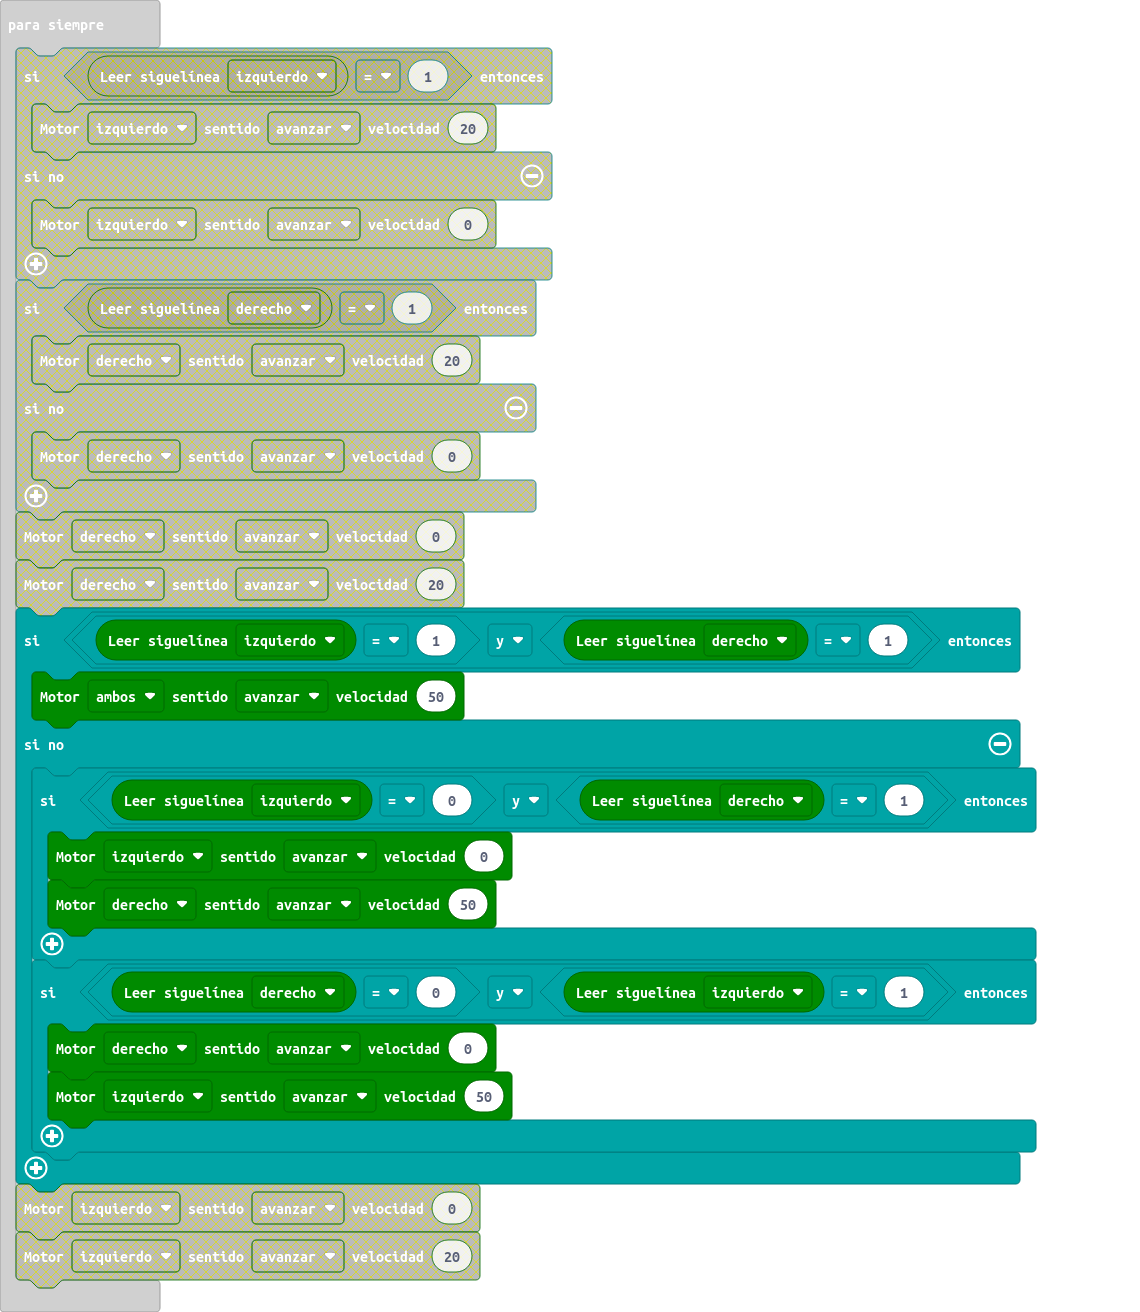
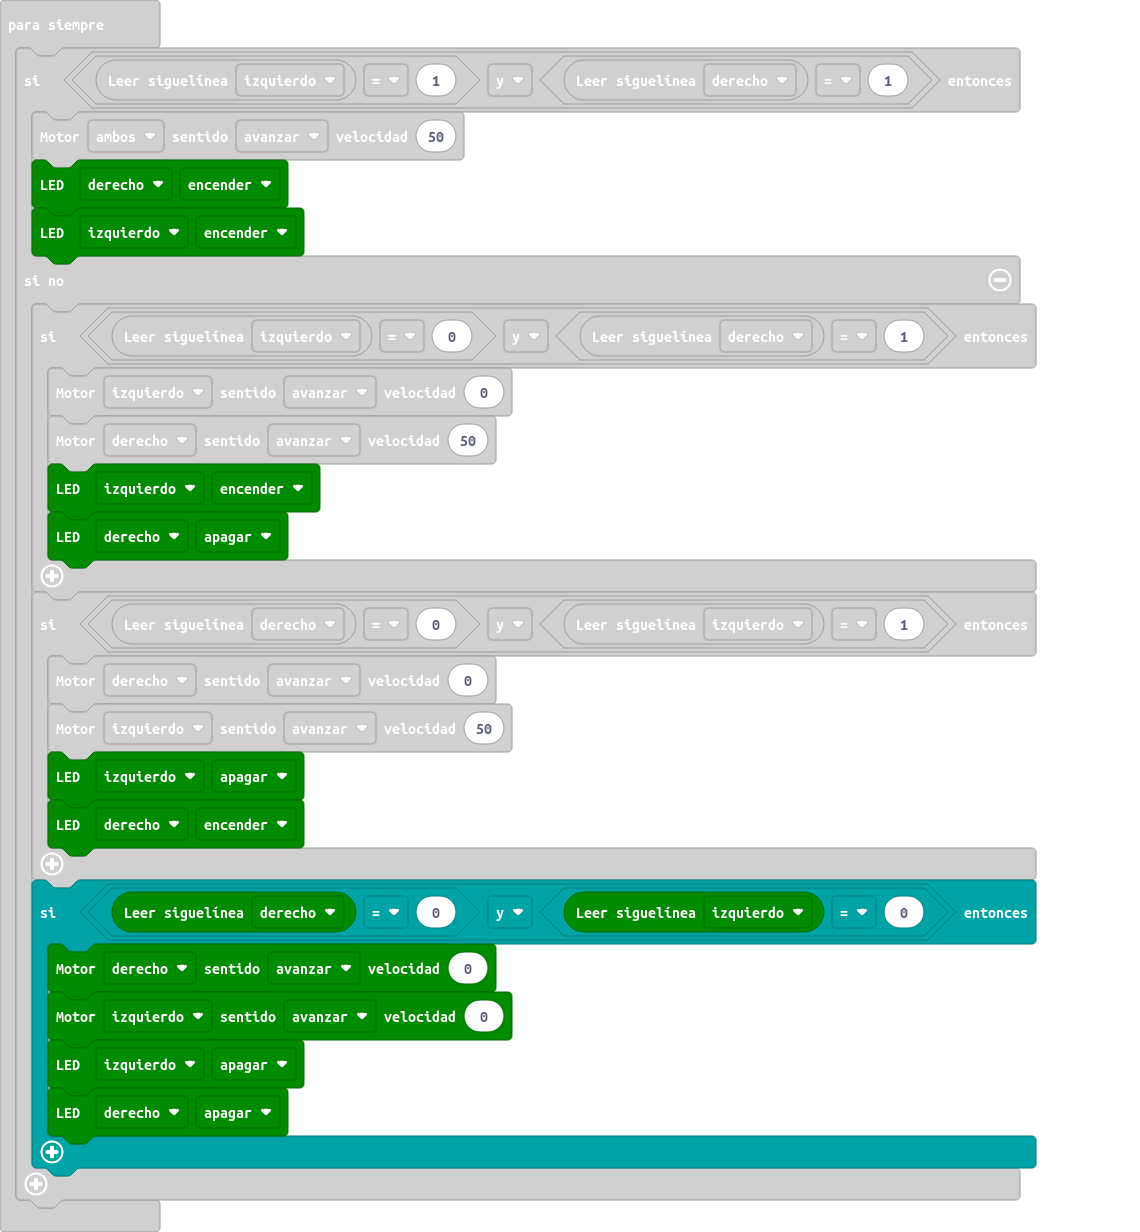
ljfdgoigsoreugfaertdfhosicfaue9sudhscoashuiñ

diff --git a/main.ts b/main.ts
@@ -1,14 +1,26 @@
 basic.forever(function () {
     if (maqueen.readPatrol(maqueen.Patrol.PatrolLeft) == 1 && maqueen.readPatrol(maqueen.Patrol.PatrolRight) == 1) {
         maqueen.motorRun(maqueen.Motors.All, maqueen.Dir.CW, 50)
+        maqueen.writeLED(maqueen.LED.LEDLeft, maqueen.LEDswitch.turnOn)
+        maqueen.writeLED(maqueen.LED.LEDRight, maqueen.LEDswitch.turnOn)
     } else {
         if (maqueen.readPatrol(maqueen.Patrol.PatrolLeft) == 0 && maqueen.readPatrol(maqueen.Patrol.PatrolRight) == 1) {
             maqueen.motorRun(maqueen.Motors.M1, maqueen.Dir.CW, 0)
             maqueen.motorRun(maqueen.Motors.M2, maqueen.Dir.CW, 50)
+            maqueen.writeLED(maqueen.LED.LEDRight, maqueen.LEDswitch.turnOn)
+            maqueen.writeLED(maqueen.LED.LEDLeft, maqueen.LEDswitch.turnOff)
         }
         if (maqueen.readPatrol(maqueen.Patrol.PatrolRight) == 0 && maqueen.readPatrol(maqueen.Patrol.PatrolLeft) == 1) {
             maqueen.motorRun(maqueen.Motors.M2, maqueen.Dir.CW, 0)
             maqueen.motorRun(maqueen.Motors.M1, maqueen.Dir.CW, 50)
+            maqueen.writeLED(maqueen.LED.LEDRight, maqueen.LEDswitch.turnOff)
+            maqueen.writeLED(maqueen.LED.LEDLeft, maqueen.LEDswitch.turnOn)
+        }
+        if (maqueen.readPatrol(maqueen.Patrol.PatrolRight) == 0 && maqueen.readPatrol(maqueen.Patrol.PatrolLeft) == 0) {
+            maqueen.motorRun(maqueen.Motors.M2, maqueen.Dir.CW, 0)
+            maqueen.motorRun(maqueen.Motors.M1, maqueen.Dir.CW, 0)
+            maqueen.writeLED(maqueen.LED.LEDRight, maqueen.LEDswitch.turnOff)
+            maqueen.writeLED(maqueen.LED.LEDLeft, maqueen.LEDswitch.turnOff)
         }
     }
 })
